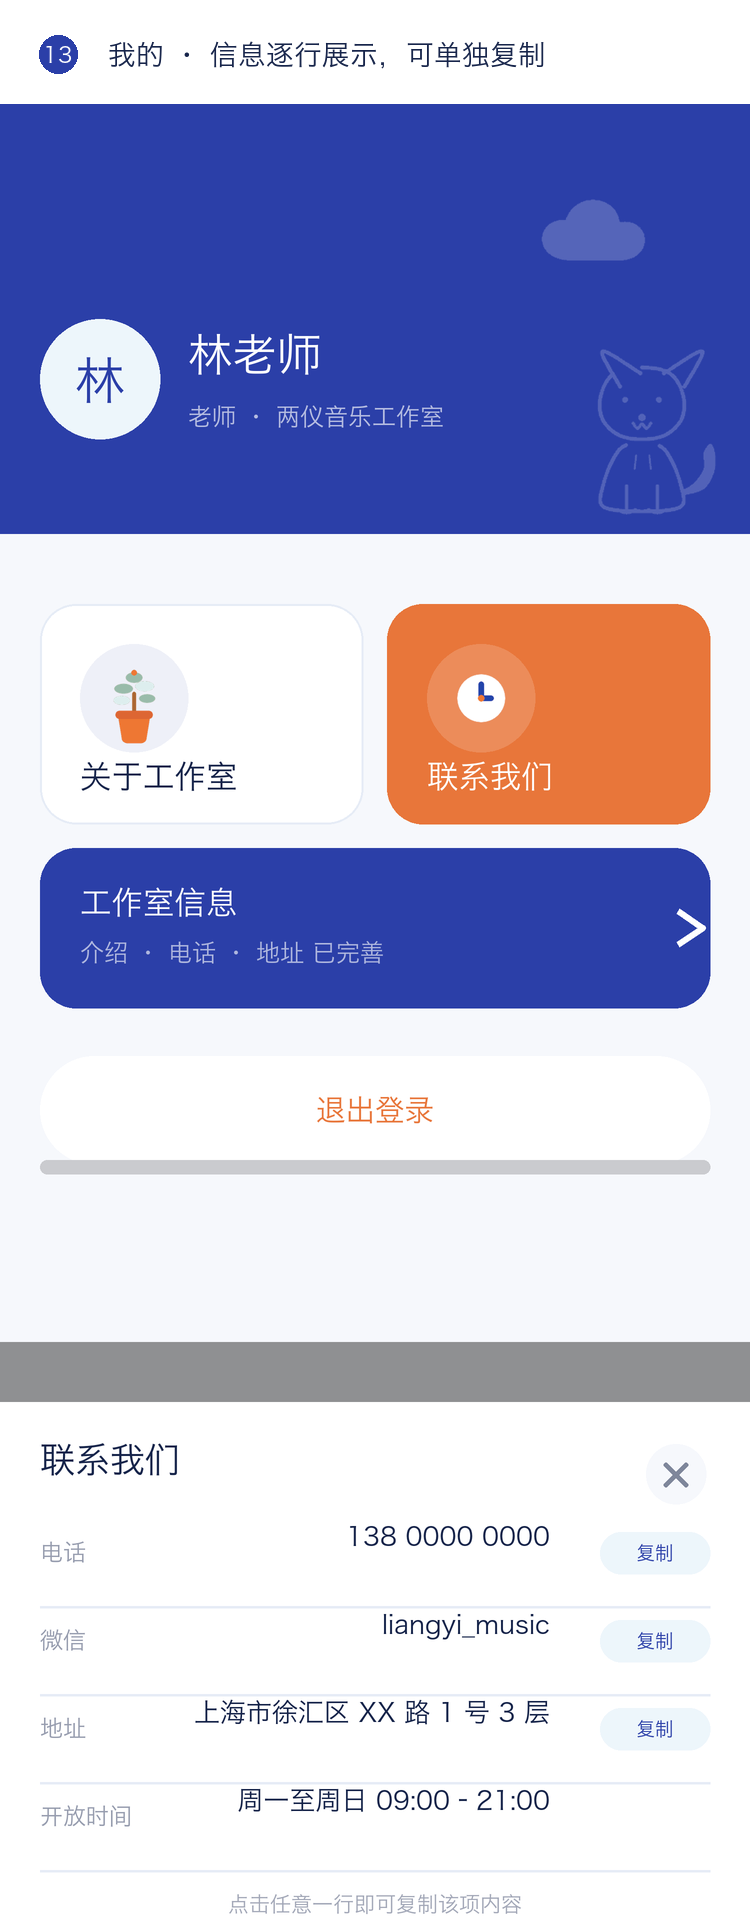
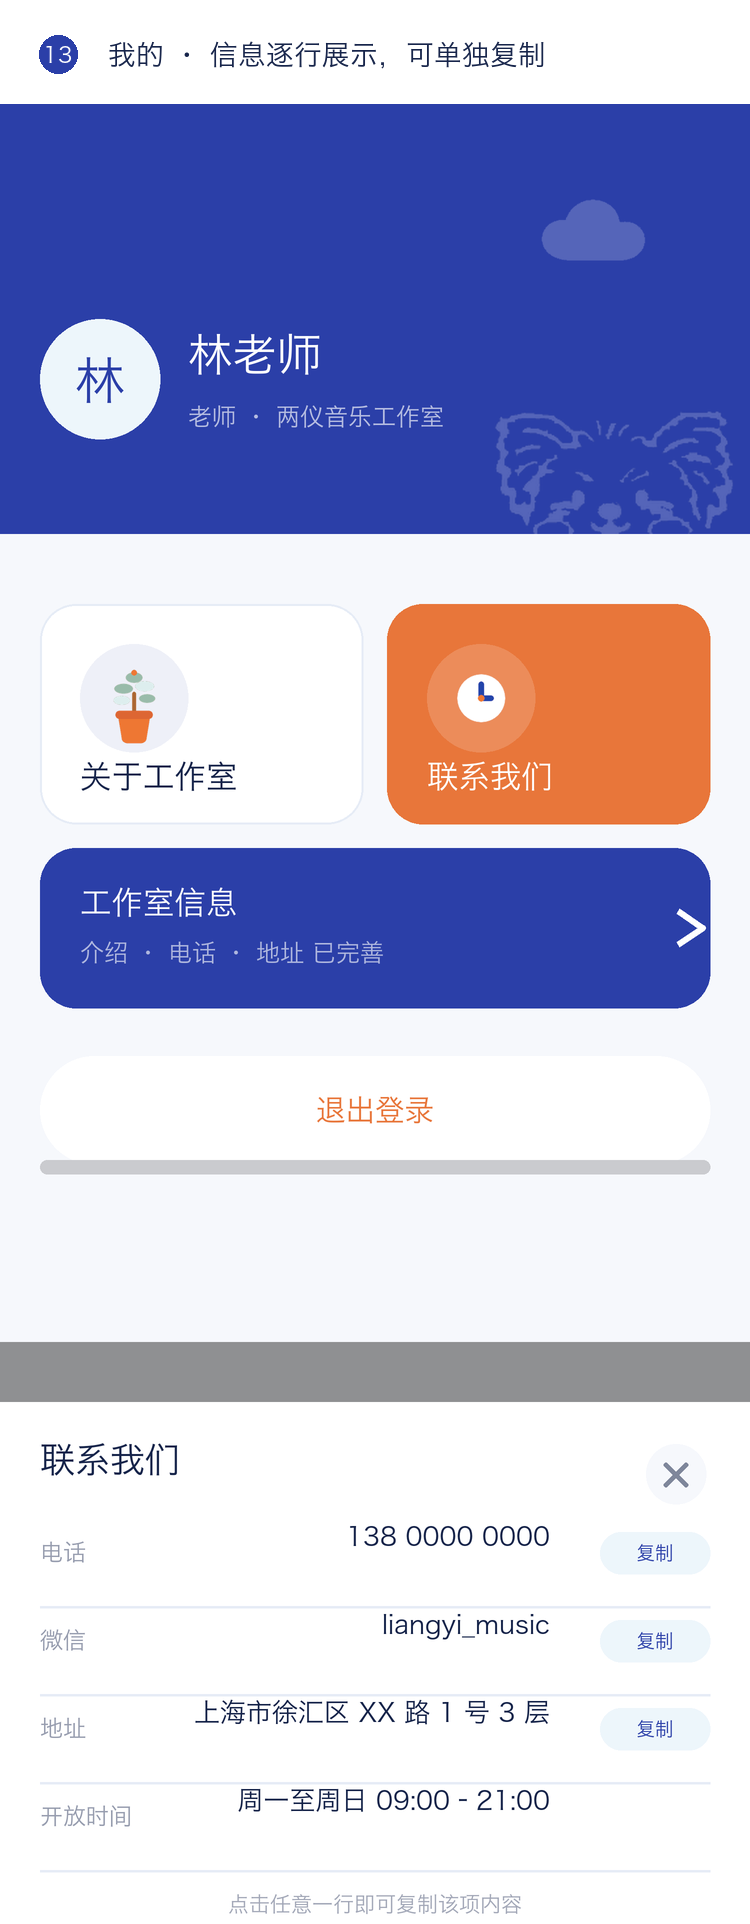
feat(ui): 换成工作室小狗「乌龙茶」的线条插画
- 全身版（首页 / 登录页）：直接从手绘稿提取的二值墨迹，黑色线条，含星点装饰
- 半身版（我的 / 我的课表 / 约课管理）：趴着探头的构图，转成白线做 20% 水印
- 首页与登录页的狗下移到面部落在白底的位置，黑色线条更清楚
- 新增 tools/extract_sketch.py：按纸色差提墨迹、剔除草地/爱心等装饰、输出透明 PNG
- 原型图与 README 预览图同步重渲染

Changed region(s): [[0.644, 0.1871, 0.9813, 0.2807]]

diff --git a/tools/extract_sketch.py b/tools/extract_sketch.py
@@ -1,0 +1,119 @@
+# -*- coding: utf-8 -*-
+"""从手绘稿提取「只有小狗」的透明线条 PNG。
+
+- 纸色当作透明：按与纸色的色差生成 alpha，保留笔触的毛边与浓淡
+- 绿色（草地）与蓝色（地面线）按色相剔除
+- 输出黑色 / 白色两版，等比放进 200×210
+用法：python3 tools/extract_sketch.py
+"""
+import os
+import numpy as np
+from PIL import Image, ImageFilter
+from scipy import ndimage
+
+OUT = os.path.join(os.path.dirname(__file__), '..', 'images')
+SRC = '/Users/mac/Desktop/照片'
+REF_W, REF_H = 200, 210
+PAD = 6
+
+
+def extract(path, crop, erase_boxes=(), drop_colors=True, tongue=None, solid=True, keep_ground=None):
+    im = Image.open(path).convert('RGB').crop(crop)
+    a = np.asarray(im).astype(np.float32)
+    h, w, _ = a.shape
+
+    # 1) 纸色 = 四边中位数
+    edge = np.concatenate([a[0], a[-1], a[:, 0], a[:, -1]])
+    paper = np.median(edge, axis=0)
+    diff = np.linalg.norm(a - paper, axis=2)
+
+    # 2) 色差 → alpha
+    if solid:
+        # 二值墨迹：实心黑线，边缘的抗锯齿交给缩小插值完成
+        alpha = np.where(diff > 15.0, 255.0, 0.0)
+    else:
+        alpha = np.clip((diff - 10.0) * 255.0 / 62.0, 0, 255)
+
+    if drop_colors:
+        r, g, b = a[..., 0], a[..., 1], a[..., 2]
+        green = (g > b + 22) & (g > r - 12)          # 草地（含偏橄榄的绿）
+        blue = (b > r + 10) & (b > g + 4)            # 地面线
+        # 膨胀 2px，把描边边缘的抗锯齿灰边一起带走，否则白底上会留一道灰影
+        def grow(m, k=5):
+            return np.array(Image.fromarray((m * 255).astype('uint8')).filter(ImageFilter.MaxFilter(k))) > 0
+        drop = grow(green) | grow(blue)
+        if keep_ground:                                  # 保留狗脚下那段地面线（当作"坐在地上"的底）
+            gx0, gx1 = keep_ground
+            xx0, xx1 = gx0 - crop[0], gx1 - crop[0]
+            keep = np.zeros_like(drop)
+            keep[:, max(0, xx0):max(0, xx1)] = True
+            drop = drop & ~keep
+        alpha[drop] = 0
+
+    yy, xx = np.mgrid[0:h, 0:w]
+    for (x0, y0, x1, y1) in erase_boxes:
+        alpha[(xx >= x0) & (xx < x1) & (yy >= y0) & (yy < y1)] = 0
+
+    if tongue:                                        # 舌头：实心粉块转黑会糊成一团
+        x0, y0, x1, y1 = tongue
+        m = (xx >= x0) & (xx < x1) & (yy >= y0) & (yy < y1)
+        alpha[m] = 0
+
+    # 4) 清掉孤立的小墨点（JPEG 噪点、装饰残留）；五官都比这个阈值大
+    alpha = alpha.astype(np.uint8)
+    binm = alpha > 128
+    lab, n = ndimage.label(binm)
+    if n > 1:
+        sizes = ndimage.sum(binm, lab, range(1, n + 1))
+        main = int(np.argmax(sizes)) + 1
+        dist = ndimage.distance_transform_edt(lab != main)
+        for i in range(1, n + 1):
+            if i == main:
+                continue
+            m = lab == i
+            if sizes[i - 1] < 60 and dist[m].min() > 10:
+                alpha[m] = 0
+
+    # 3) 等比缩放进 200×210
+    k = min((REF_W - PAD * 2) / w, (REF_H - PAD * 2) / h)
+    tw, th = max(1, round(w * k)), max(1, round(h * k))
+    return alpha, (tw, th)
+
+
+def save_pair(alpha, size, tag, tight=False):
+    tw, th = size
+    out = []
+    for color, name in (((26, 26, 26), 'dog.png' if tag == 'full' else 'dog-w.png'),
+                        ((255, 255, 255), 'dog-w.png' if tag == 'full' else 'dog.png')):
+        pass
+    # 只输出需要的两版：full→dog.png（黑），half→dog-w.png（白）
+    color = (26, 26, 26) if tag == 'full' else (255, 255, 255)
+    name = 'dog.png' if tag == 'full' else 'dog-w.png'
+    rgba = Image.new('RGBA', (alpha.shape[1], alpha.shape[0]), color + (0,))
+    rgba.putalpha(Image.fromarray(alpha, 'L'))
+    small = rgba.resize((tw, th), Image.LANCZOS)
+    canvas = Image.new('RGBA', (REF_W, REF_H), (0, 0, 0, 0))
+    canvas.paste(small, ((REF_W - tw) // 2, (REF_H - th) // 2), small)
+    if tight:                                   # 半身像裁到内容边界，避免 contain 时被留白挤小
+        bb = canvas.getbbox()
+        if bb:
+            canvas = canvas.crop((bb[0], bb[1], bb[2], bb[3]))
+    canvas.save(os.path.join(OUT, name), optimize=True)
+    print('  ok', name, canvas.size, '内容 %dx%d' % (tw, th))
+    return canvas
+
+
+if __name__ == '__main__':
+    # 全身：去掉文字 / 星星 / 花 / 草，只留狗；舌头不抠（黑色小舌）
+    a, sz = extract(os.path.join(SRC, '约克夏全身.jpg'),
+                    crop=(372, 256, 674, 598),
+                    erase_boxes=[(0, 192, 14, 236),      # 左侧爱心碎片
+                                 (280, 128, 302, 178)],  # 右侧星星（草地靠颜色剔除，不能用框）
+                    keep_ground=(424, 636))              # 只留狗脚下那一段地面线
+    save_pair(a, sz, 'full')
+
+    # 半身：去掉草地、爱心、腮红、舌头
+    a2, sz2 = extract(os.path.join(SRC, '约克夏半身.jpg'),
+                      crop=(345, 295, 670, 470),
+                      erase_boxes=[])
+    save_pair(a2, sz2, 'half', tight=True)

diff --git a/tools/build_dog.py b/tools/build_dog.py
@@ -1,0 +1,129 @@
+# -*- coding: utf-8 -*-
+"""生成约克夏「乌龙茶」的线条插画（黑线 / 白线两版）。
+
+设计约束（沿用小程序现有插画语言）：
+- 纯线条、无填充色块、无渐变、无阴影
+- 200x210 输出，4 倍超采样后缩小，保证 200rpx 下依然清晰
+- 线宽 7/200 ≈ 3.5%，和现有 dog.png 一致
+用法：python3 tools/build_dog.py
+"""
+import os
+from PIL import Image, ImageDraw
+
+REF_W, REF_H = 200, 210
+S = 4                       # 超采样倍数
+W, H = REF_W * S, REF_H * S
+OUT = os.path.join(os.path.dirname(__file__), '..', 'images')
+
+
+def catmull(pts, samples=18):
+    """Catmull-Rom 插值，把控制点变成平滑曲线"""
+    if len(pts) < 3:
+        return pts
+    p = [pts[0]] + list(pts) + [pts[-1]]
+    out = []
+    for i in range(len(p) - 3):
+        p0, p1, p2, p3 = p[i], p[i + 1], p[i + 2], p[i + 3]
+        for j in range(samples):
+            t = j / samples
+            t2, t3 = t * t, t * t * t
+            x = 0.5 * ((2 * p1[0]) + (-p0[0] + p2[0]) * t +
+                       (2 * p0[0] - 5 * p1[0] + 4 * p2[0] - p3[0]) * t2 +
+                       (-p0[0] + 3 * p1[0] - 3 * p2[0] + p3[0]) * t3)
+            y = 0.5 * ((2 * p1[1]) + (-p0[1] + p2[1]) * t +
+                       (2 * p0[1] - 5 * p1[1] + 4 * p2[1] - p3[1]) * t2 +
+                       (-p0[1] + 3 * p1[1] - 3 * p2[1] + p3[1]) * t3)
+            out.append((x, y))
+    out.append(pts[-1])
+    return out
+
+
+def stroke(d, pts, width=7.0, color=(26, 26, 26), closed=False, samples=18):
+    """圆头圆角折线"""
+    q = catmull(pts, samples)
+    if closed:
+        q = q + [q[0], q[1]]
+    q = [(x * S, y * S) for x, y in q]
+    w = max(1, int(round(width * S)))
+    d.line(q, fill=color, width=w, joint='curve')
+    r = w / 2.0
+    for x, y in (q[0], q[-1]):
+        d.ellipse([x - r, y - r, x + r, y + r], fill=color)
+
+
+def dot(d, x, y, r, color=(26, 26, 26)):
+    d.ellipse([(x - r) * S, (y - r) * S, (x + r) * S, (y + r) * S], fill=color)
+
+
+def wavy(p0, p1, amp=1.6, n=6, ph=0.0):
+    """两点之间加轻微波浪，用来画毛边"""
+    import math
+    x0, y0 = p0; x1, y1 = p1
+    dx, dy = x1 - x0, y1 - y0
+    L = math.hypot(dx, dy) or 1
+    nx, ny = -dy / L, dx / L
+    pts = []
+    for i in range(n + 1):
+        t = i / n
+        s = math.sin(t * math.pi * 2.2 + ph) * amp * (1 - abs(t - .5))
+        pts.append((x0 + dx * t + nx * s, y0 + dy * t + ny * s))
+    return pts
+
+
+def draw_dog(color=(26, 26, 26)):
+    """头大身小、线条尽量少：耳朵 / 圆脸 / 点眼 / 小鼻子 / 羽状尾"""
+    im = Image.new('RGBA', (W, H), (0, 0, 0, 0))
+    d = ImageDraw.Draw(im)
+    LW = 7.4
+    HEAD = (48, 32, 152, 136)                  # 大头：104 × 104
+    hx0, hy0, hx1, hy1 = [v * S for v in HEAD]
+
+    # ── 耳朵（两根折线，尖朝上外）──
+    stroke(d, [(70, 48), (52, 6), (98, 34)], LW, color)
+    stroke(d, [(130, 48), (148, 6), (102, 34)], LW, color)
+
+    # ── 身体（小）──
+    stroke(d, [(78, 130), (68, 156), (66, 186), (72, 197)], LW, color)
+    stroke(d, [(122, 130), (132, 156), (134, 186), (128, 197)], LW, color)
+    stroke(d, [(72, 197), (100, 200), (128, 197)], LW, color)
+
+    # ── 掏空头部内圈（耳根藏到脑后）──
+    mask = Image.new('L', (W, H), 0)
+    md = ImageDraw.Draw(mask)
+    inset = LW * S / 2 + 1
+    md.ellipse([hx0 + inset, hy0 + inset, hx1 - inset, hy1 - inset], fill=255)
+    im.putalpha(Image.composite(Image.new('L', (W, H), 0), im.getchannel('A'), mask))
+
+    # ── 头 ──
+    d.ellipse([hx0, hy0, hx1, hy1], outline=color, width=int(LW * S))
+
+    # ── 五官 ──
+    dot(d, 84, 88, 7.2, color)
+    dot(d, 116, 88, 7.2, color)
+    dot(d, 100, 104, 4.8, color)                                  # 鼻子
+    stroke(d, [(100, 109), (95, 114), (100, 112), (105, 114), (100, 109)],
+           LW * .45, color)                                       # 嘴
+
+    # ── 尾巴（贴在右臀，羽状）──
+    stroke(d, [(133, 186), (150, 178), (161, 158), (159, 138)], LW, color)
+    stroke(d, [(159, 138), (150, 146), (145, 168), (143, 184)], LW, color)
+
+    # ── 两只小爪子 ──
+    stroke(d, [(84, 198), (88, 203), (94, 198)], LW * .55, color)
+    stroke(d, [(106, 198), (112, 203), (116, 198)], LW * .55, color)
+    return im
+
+
+def main():
+    black = draw_dog((26, 26, 26))
+    white = draw_dog((255, 255, 255))
+    for im, name in ((black, 'dog.png'), (white, 'dog-w.png')):
+        small = im.resize((REF_W, REF_H), Image.LANCZOS)
+        small.save(os.path.join(OUT, name), optimize=True)
+        print('  ok', name, small.size)
+    black.resize((REF_W, REF_H), Image.LANCZOS).save('/tmp/dog_black.png')
+    print('done')
+
+
+if __name__ == '__main__':
+    main()

diff --git a/tools/extract_dog.py b/tools/extract_dog.py
@@ -1,0 +1,50 @@
+# -*- coding: utf-8 -*-
+"""从手绘稿直接提取线条，生成透明 PNG（黑线 / 白线两版）。
+
+原理：手绘稿是「白纸 + 黑墨」，把亮度当作 alpha 通道即可无损留下笔触
+（白=透明，黑=不透明，灰边保留为半透明，缩小时自然抗锯齿）。
+用法：python3 tools/extract_dog.py <手绘稿.jpg>
+"""
+import sys, os
+import numpy as np
+from PIL import Image
+
+OUT = os.path.join(os.path.dirname(__file__), '..', 'images')
+REF_W, REF_H = 200, 210
+PAD = 6                     # 画布内留白（1rpx）
+INK_LEVEL, WHITE_LEVEL = 30, 245   # 色阶：<30 全黑，>245 全透明
+
+
+def main(path):
+    g = Image.open(path).convert('L')
+    a = np.array(g).astype(np.int16)
+
+    # 1) 自动找墨迹范围（忽略浅灰水印）
+    ys, xs = np.where(a < 170)
+    x0, x1 = xs.min(), xs.max()
+    y0, y1 = ys.min(), ys.max()
+    pad = 10
+    crop = a[max(0, y0 - pad):y1 + pad, max(0, x0 - pad):x1 + pad]
+    print('  墨迹范围 %dx%d' % (x1 - x0 + 1, y1 - y0 + 1))
+
+    # 2) 亮度 → alpha（白纸透明，墨迹不透明，灰边半透明）
+    alpha = (WHITE_LEVEL - crop) * 255.0 / (WHITE_LEVEL - INK_LEVEL)
+    alpha = np.clip(alpha, 0, 255).astype(np.uint8)
+
+    # 3) 等比缩放到 200×210（留白 6）
+    h, w = alpha.shape
+    k = min((REF_W - PAD * 2) / w, (REF_H - PAD * 2) / h)
+    tw, th = max(1, round(w * k)), max(1, round(h * k))
+
+    for color, name in (((26, 26, 26), 'dog.png'), ((255, 255, 255), 'dog-w.png')):
+        rgba = Image.new('RGBA', (w, h), color + (0,))
+        rgba.putalpha(Image.fromarray(alpha, 'L'))
+        small = rgba.resize((tw, th), Image.LANCZOS)
+        canvas = Image.new('RGBA', (REF_W, REF_H), (0, 0, 0, 0))
+        canvas.paste(small, ((REF_W - tw) // 2, (REF_H - th) // 2), small)
+        canvas.save(os.path.join(OUT, name), optimize=True)
+        print('  ok', name, canvas.size, '内容 %dx%d' % (tw, th))
+
+
+if __name__ == '__main__':
+    main(sys.argv[1] if len(sys.argv) > 1 else '/Users/mac/Desktop/照片/约克夏.jpg')

diff --git a/tools/build_prd_assets.py b/tools/build_prd_assets.py
@@ -14,7 +14,7 @@ s.rect(0,0,W,170,fill=SKYL)
 s.ill('sun.png',514,84,76); s.ill('cloud.png',40,92,130)
 s.text(40,96,'LIANGYI MUSIC STUDIO',20,mix(COB,.55),True)
 s.rect(0,170,W,331,fill=COB); s.text(40,226,'两仪音乐',104,WHITE,True)
-s.ill('dog.png',504,315,210)                      # 骑跨色带交界，右侧
+s.ill('dog.png',504,391,210)                      # 骑跨色带交界，右侧
 by, bh, gap = 651, 300, 28
 bw = (W-80-gap)//2
 for i,(txt,bg) in enumerate([('我是老师',COB),('我是学员',TERRA)]):
@@ -248,7 +248,7 @@ print("全部原型图生成完成")
 s=Screen(h=1820)
 s.rect(0,0,W,430,fill=COB)
 s.ill('cloud-w.png', W-40-180, 80, 180, alpha=.2)
-s.ill('dog-w.png',   W-20-176, 430-185-8, 176, alpha=.2)
+s.ill('dog-w.png',   W-16-240, 430-125, 240, alpha=.2)
 s.rect(40,215,120,120,fill=SKYL,r=100); s.text(100,276,'林',54,COB,True,anchor='mm')
 s.text(188,228,'林老师',48,WHITE,True); s.text(188,300,'老师 · 两仪音乐工作室',24,mix(WHITE,.65,COB))
 s.rect(0,430,W,s.h-430,fill=PAPER)
